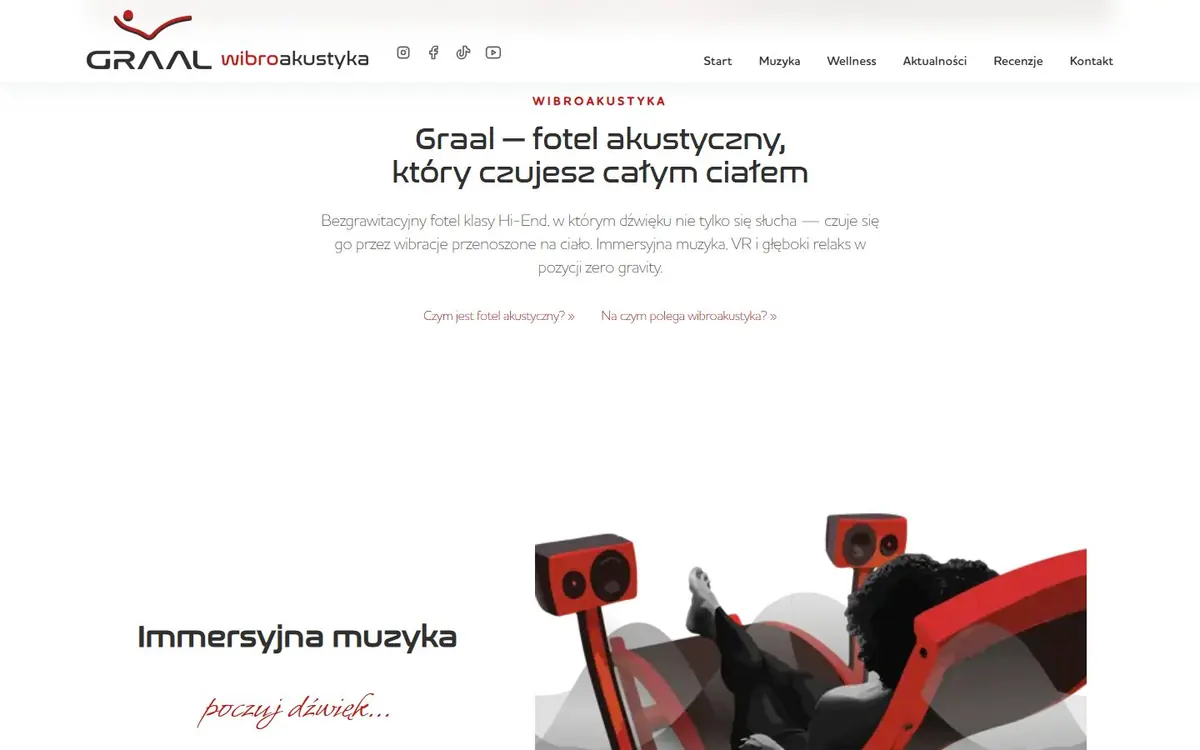
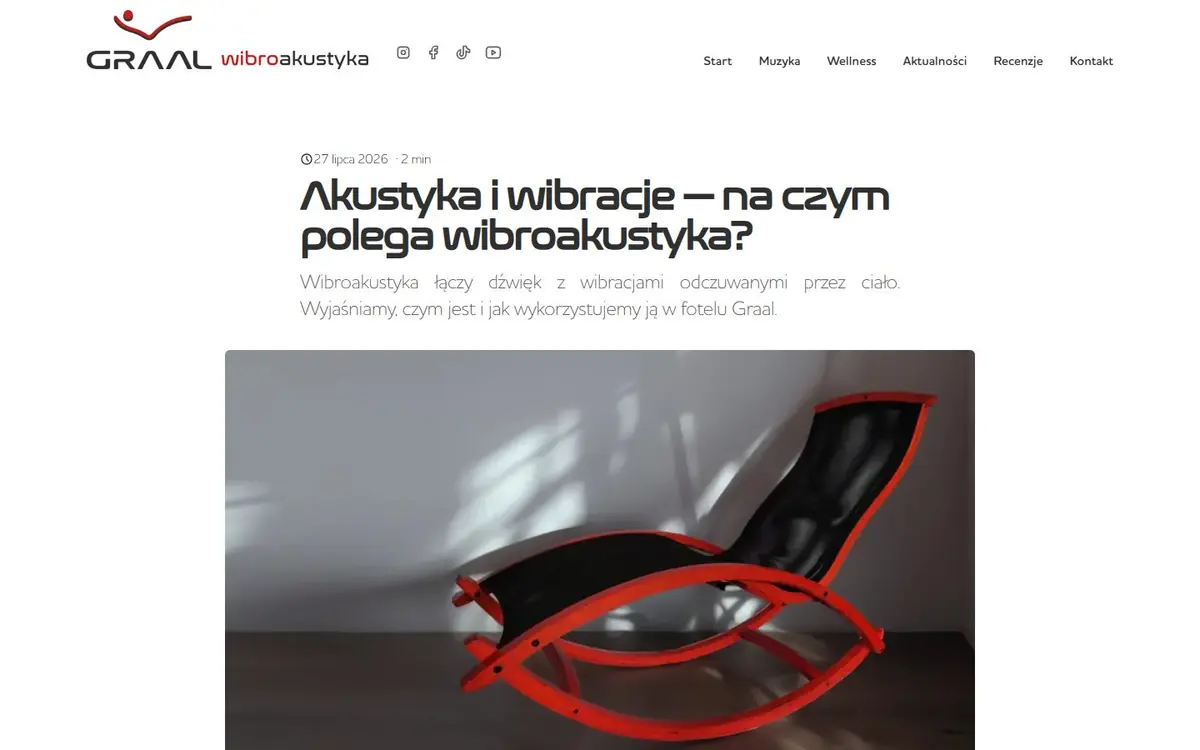
fix(web): pick each project's plate frames deliberately
The first pass captured frames at fixed scroll offsets, which gave
near-duplicate city pages for Szkoły Jogi, arbitrary mid-page crops, and a
single night scene for Dino. Frames are now chosen pages: a studio profile,
the "today" timeline and a city page for Szkoły Jogi; product and category
pages for Fixtar; festival pages; portfolio and about pages; and so on.

Dino gets a dawn-to-night arc captured with a clock override (dawn, noon,
sunset, night). The Look inside dialog now fits the whole plate instead of
cropping it, so nothing is cut in half. Mail accepts extra screens as
mail-2.webp, mail-3.webp… once demo captures exist.

diff --git a/apps/web/src/lib/plates.ts b/apps/web/src/lib/plates.ts
@@ -1,7 +1,8 @@
 // Plates: real screenshots of every project, so the canvas can be browsed
 // without opening anything. Public sites were captured from the live page
-// (desktop 1440×900 scaled to 1200 wide, phone 390×844). Mail and Music
-// need an account, so they keep their demo-account plates.
+// (desktop 1440×900 scaled to 1200 wide, phone 390×844, scrollbars hidden),
+// each frame a deliberately chosen page rather than a scroll offset. Mail
+// and Music need an account, so they keep their demo-account plates.
 //
 // Frames are the "key screens" a peek strip scrubs through, in order.
 // Every file is imported so it gets a hashed URL (see DESIGN.md, Hashed Asset Rule).
@@ -23,54 +24,54 @@ export const capturedOn = '2026-10-07';
 // What each desktop frame shows, in the project's own words.
 const screens: Record<string, string[]> = {
 	szkolyjogi: [
-		'the home page, with search by city, postal code, studio or style',
-		'the Warsaw page, with studios, schedules, prices and reviews',
-		'the Wrocław page, with studios, schedules, prices and reviews'
+		'a studio profile, Yoga Shala Kraków, with photos, schedule and reviews',
+		'"Yoga today in Kraków", every class of the day on one timeline',
+		'the Kraków page, studios by style with schedules and prices'
 	],
 	fixtar: [
 		'the home page with the "Twój dom, twoja moc" hero',
-		'the category grid, from drills and saws to garden tools',
-		'the product grid with prices'
+		'the grinders and polishers category',
+		'a product page, the EUMS-3150 mitre saw'
 	],
 	register: ['the "Create your address" form'],
-	dino: ['tonight\'s sky over Poland, with the dinosaur'],
-	thebest: [
-		'the "Discover Kraków" hero',
-		'the upcoming tours list and a kayaking trip on the Dunajec',
-		'the top tours grid with prices'
+	dino: [
+		'dawn over the hills, with the hourly forecast below',
+		'midday, a clear blue sky',
+		'sunset, the sky turning red',
+		'night, with true star positions and the dinosaur'
 	],
-	festivals: [
-		'the search box and the year-ahead timeline',
-		'the timeline by region',
-		'the festival list with dates and prices'
-	],
-	pikastro: [
-		'the "Dość beżu, czas na kolor" hero',
-		'the "Odmień swoją przestrzeń" section',
-		'the 30 m² Kraków case study'
-	],
+	thebest: ['the "Discover Kraków" hero', 'the Explore Tours grid', 'a tour page, kayaking on the Dunajec river'],
+	festivals: ['the year-ahead timeline', 'the Unsound Festival page', 'the Waking Life page'],
+	pikastro: ['the "Dość beżu, czas na kolor" hero', 'the interior and graphic design portfolio', 'the about page'],
 	kurcz: [
 		'the home page with the muscle anatomy illustration',
-		'the main sections, from causes to first aid and prevention',
-		'the frequently asked questions'
+		'the first-aid guide for an acute cramp',
+		'the night cramps article'
 	],
-	recycling: ['the home page, where to hand in e-waste, batteries, oils and tyres'],
+	recycling: ['the home page, where to hand in e-waste, batteries, oils and tyres', 'collection points in Kraków', 'the recycling guide'],
 	tutitutu: ['the home page', 'the realisations gallery', 'a showroom realisation'],
-	kruk: ['the KRUK home page', 'the Collaborate apps, a drawing board and a kanban', 'the property scraper and pixel canvas'],
-	wibroakustyka: ['the Graal acoustic chair', 'the chair described', 'the wellness section'],
-	intertech: ['the home page for Picarro and UGT'],
-	polaczenie: ['the acupuncture clinic home page', 'the treatments', 'about the therapist'],
+	kruk: ['the KRUK home page', 'the real-time drawing board', 'the kanban board'],
+	wibroakustyka: ['the Graal acoustic chair', 'how vibroacoustics works', 'what an acoustic chair is'],
+	intertech: ['the home page for Picarro and UGT', 'CRDS spectroscopy', 'gas leak detection from the air'],
+	polaczenie: ['the acupuncture clinic home page', 'the therapist at work'],
 	radiobartek: ['the player page']
 };
 
+// Frames named <id>-1, <id>-2… in ./plates, described in order.
+const framesFor = (id: string, name: string): Plate[] =>
+	(screens[id] ?? [])
+		.map((what, i) => ({ src: file(`${id}-${i + 1}`), alt: `${name}: ${what}.`, w: 1200, h: 750 }))
+		.filter((f) => f.src);
+
 const live = (id: string, name: string): Plates => ({
 	source: 'live',
-	frames: (screens[id] ?? [])
-		.map((what, i) => ({ src: file(`${id}-${i + 1}`), alt: `${name}: ${what}.`, w: 1200, h: 750 }))
-		.filter((f) => f.src),
+	frames: framesFor(id, name),
 	phone: file(`${id}-phone`) ? { src: file(`${id}-phone`), alt: `${name} on a phone.`, w: 390, h: 844 } : undefined
 });
 
+// Demo-account plates. More Mail screens can be dropped in as mail-2.webp,
+// mail-3.webp… (1200×750) and described here in order.
+const mailScreens = ['the calendar', 'contacts', 'files', 'a Meet video call'];
 const demo: Record<string, Plates> = {
 	mail: {
 		source: 'demo',
@@ -80,7 +81,10 @@ const demo: Record<string, Plates> = {
 				alt: 'Zaur Mail on a desktop: folders on the left, the inbox list, and an open three-message thread.',
 				w: 1440,
 				h: 900
-			}
+			},
+			...mailScreens
+				.map((what, i) => ({ src: file(`mail-${i + 2}`), alt: `Zaur Mail: ${what}.`, w: 1200, h: 750 }))
+				.filter((f) => f.src)
 		],
 		phone: { src: file('mail-phone'), alt: 'Zaur Mail on a phone: the inbox with unread and flagged messages.', w: 585, h: 1266 }
 	},

diff --git a/apps/web/src/lib/canvas.css b/apps/web/src/lib/canvas.css
@@ -1375,10 +1375,10 @@ mark {
 }
 
 .plates__main img {
-	width: 100%;
+	width: auto;
+	max-width: 100%;
 	max-height: min(62dvh, 46rem);
-	object-fit: cover;
-	object-position: top;
+	margin-inline: auto;
 }
 
 .plates__main figcaption {

diff --git a/apps/web/DESIGN.md b/apps/web/DESIGN.md
@@ -397,7 +397,7 @@ An off-white 3rem field (12px radius, Rest shadow) with a search icon, a placeho
 
 ### Look Inside Dialog
 A native modal `<dialog>` that is one big node: a family header (coral for apps, sky for websites) with the part number, the name, the host and a quiet Close; the plate; a thumbnail row; and the open link. Off-white, 14px radius, Lift shadow, over a cobalt 70% backdrop, max `76rem` wide and scrollable past `100dvh − 2rem`. Esc (`oncancel`) and a backdrop click close through the morph.
-- **Plate:** the selected frame fills the row (cover from the top, max `min(62dvh, 46rem)`), with its description as the figcaption. A phone capture, when there is one, sits beside it at `min(13rem, 22vw)` and stacks under it at 860px and below.
+- **Plate:** the selected frame is shown whole, fitted inside the row and `min(62dvh, 46rem)` tall, centred, with its description as the figcaption. The dialog never crops a plate; only the strip does. A phone capture, when there is one, sits beside it at `min(13rem, 22vw)` and stacks under it at 860px and below.
 - **Thumbs:** 7.5rem tabs for every frame, 60% at rest, 85% on hover, full with a 2px package-yellow ring when selected. Left and right arrows change the frame.
 - **Provenance:** the foot says where the pixels come from: "Captured from the live site on 7 October 2026" for public sites, "Screenshots from a demo account" for Mail and Music (Mail adds that every message and sender is made up). Beside it, a solid Open (or Sign in to) button and a Source link.
 
@@ -422,7 +422,7 @@ A native modal `<dialog>` that is one big node: a family header (coral for apps,
 - **Do** keep headings on cobalt in Funnel Display 700 with negative tracking, and put counts inline after them in Sans.
 - **Do** dim with `opacity: 0.4` plus `grayscale(1)`.
 - **Do** import new images from `src/lib` so they get hashed URLs.
-- **Do** give every new app or website plates: capture the live page at 1440×900 (scaled to 1200 wide) and 390×844 with scrollbars hidden, save them as `src/lib/plates/<id>-<n>.webp` and `<id>-phone.webp`, and describe each frame in `plates.ts` in the project's own words. A project without plates renders without a strip; never stand in with a mock or illustration.
+- **Do** give every new app or website plates: capture the live page at 1440×900 (scaled to 1200 wide) and 390×844 with scrollbars hidden, save them as `src/lib/plates/<id>-<n>.webp` and `<id>-phone.webp`, and describe each frame in `plates.ts` in the project's own words. Each frame is a deliberately chosen page or state (a studio profile, a product page, the sky at noon), never a scroll offset, and no two frames of one project should look alike. A project without plates renders without a strip; never stand in with a mock or illustration.
 
 ### Don't:
 - **Don't** use a white sheet with black ink and one spot colour, or any printed-document look (the old Parts Catalog, kurcz.pl, Friendly Festivals).
